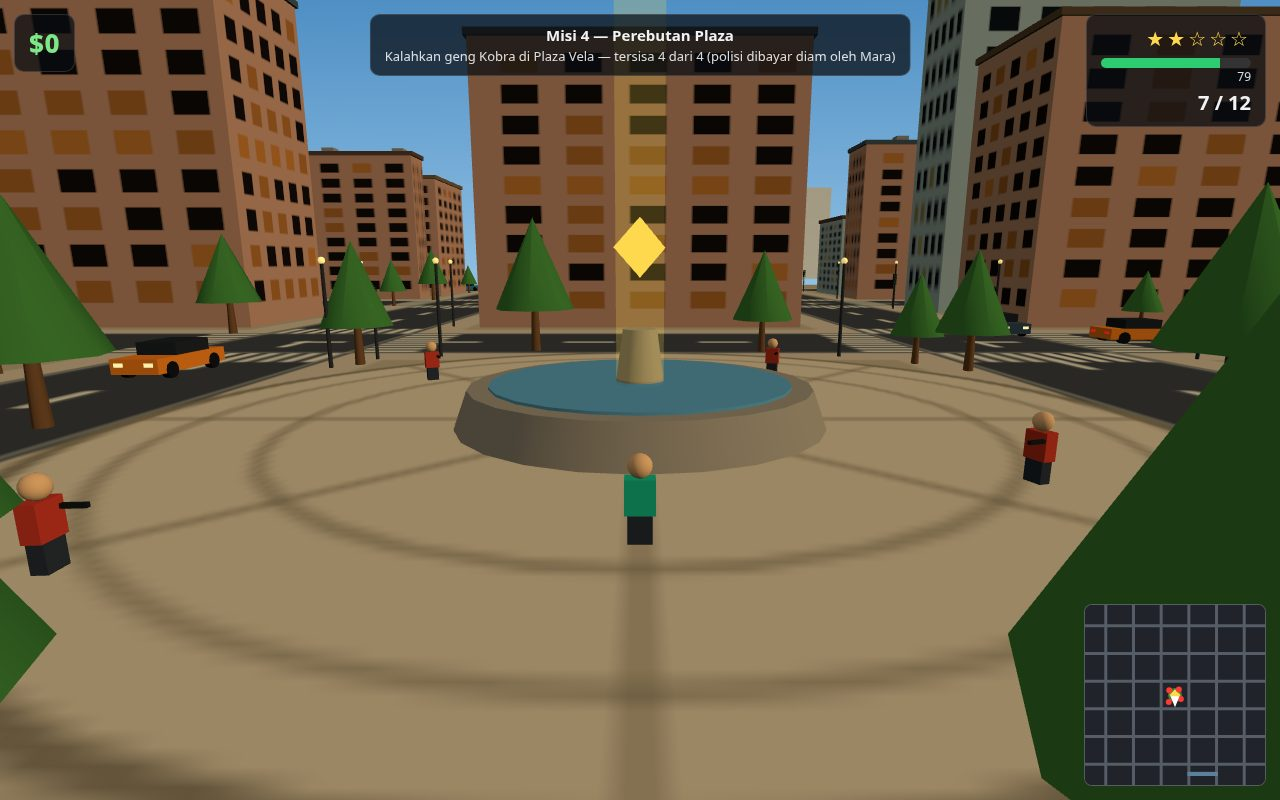
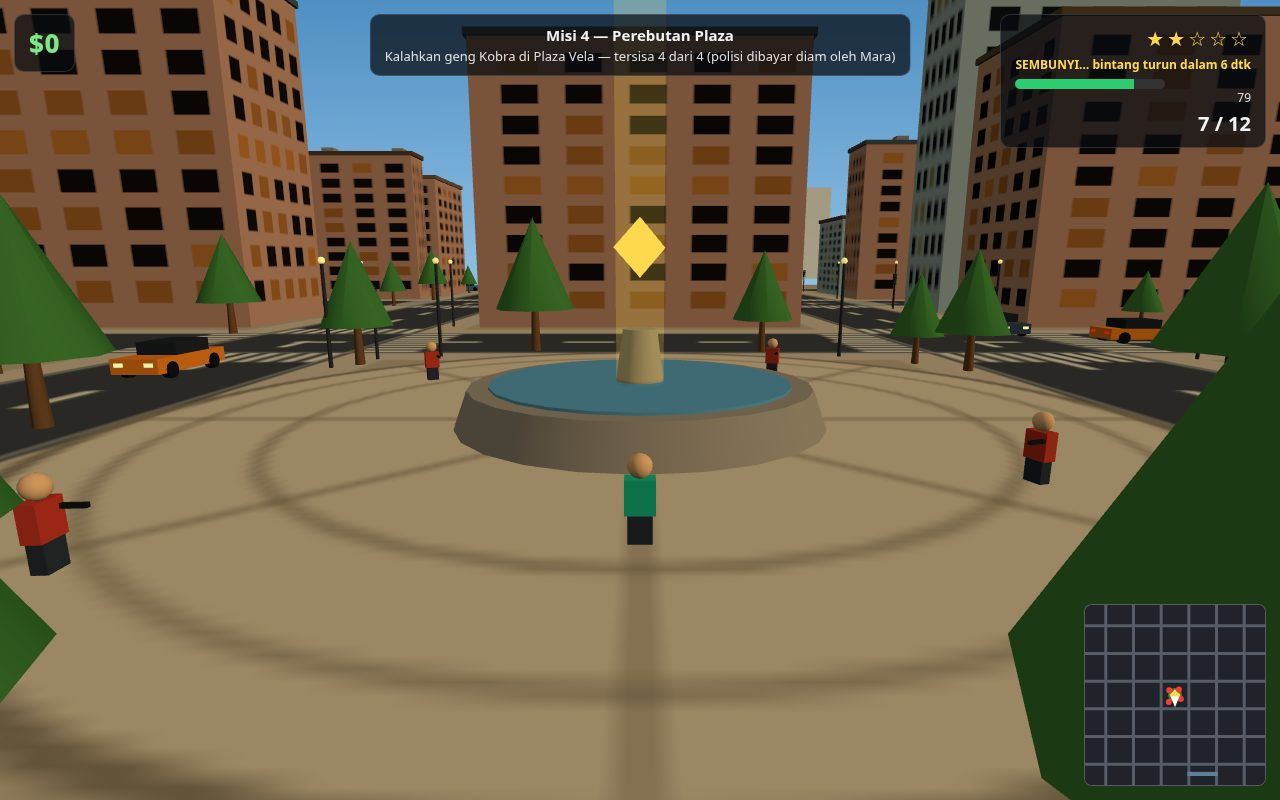
Police pursuit: strobing patrol cars, lose-the-cops HUD, two-cop chase shots
- Patrol cars now read as police at a glance: black-and-white paint band,
  POLICE lettering on the rear window, and big alternating red/blue strobe
  halos with a coloured light pool on the road (the old roof bar was a few
  pixels from the chase camera)
- Lose-the-cops readout in the HUD: POLISI MENDEKAT - KABUR! while a patrol
  car is close, SEMBUNYI... countdown while every cop is far enough for a
  star to fade (sim exposes nearestCop/hideIn on state)
- Staged shots now run at wanted 2 with two cops in frame: play (two cops
  head-on, 12 m and 24 m ahead) and docks (two cops on the boards); the
  plaza shot also shows the hiding countdown
- Sim 19/19 (steal -> wanted + spawn, hiding decay, missions 1-3 flow),
  Playwright all passed, dossier builds (14 files, 770778 bytes)

Changed region(s): [[0.7812, 0.0, 1.0, 0.1875]]

diff --git a/game/src/shots.js b/game/src/shots.js
@@ -2,7 +2,7 @@
 // a scene from the game's own sim, renders it, and sets window.__shotReady.
 // Nothing here is a mock: every staged scene is the real world stepped
 // forward by the real rules.
-import { SITES, SCREEN_PLAY, SCREEN_TITLE } from './config.js';
+import { QUIET_SECONDS, SITES, SCREEN_PLAY, SCREEN_TITLE } from './config.js';
 
 function driveForward(world, seconds) {
   const keys = { f: 1, s: 0, run: false, camYaw: world.state.player.heading };
@@ -14,6 +14,21 @@ function idle(world, seconds) {
   const keys = { f: 0, s: 0, run: false, camYaw: world.state.player.heading };
   const steps = Math.round(seconds * 60);
   for (let i = 0; i < steps; i++) world.step(1 / 60, keys, 0);
+}
+
+// Recompute the chase readout from the staged car positions: after the
+// cops are hand-placed, the values left over from the drive are stale.
+function syncCopProximity(s) {
+  let nearest = Infinity;
+  for (const c of s.cars) {
+    if (c.kind === 'police' && c.active) {
+      nearest = Math.min(nearest, Math.hypot(c.x - s.player.x, c.z - s.player.z));
+    }
+  }
+  s.nearestCop = nearest;
+  s.hideIn = s.wanted > 0 && nearest > 35
+    ? Math.max(0, Math.ceil(QUIET_SECONDS - s.quietTimer))
+    : 0;
 }
 
 export function stageShot(name, world) {
@@ -50,29 +65,39 @@ export function stageShot(name, world) {
     }
     world.setMission(1);
     s.cash = 500; // mission 1's reward: the chase happens after the first job
-    s.wanted = 1;
-    s.spawnPolice = 1;
+    s.wanted = 2;
+    s.spawnPolice = 2;
     s.policeTimer = 0;
     driveForward(world, 2.0);
-    // The pursuing cop belongs IN the frame: head-on, lights flashing, on
-    // the same street ahead of the player — behind the player it would sit
-    // behind the chase camera and never be seen.
-    const cop = s.cars.find((c) => c.kind === 'police');
-    if (cop) {
-      cop.x = s.player.x;
-      cop.z = s.player.z - 18;
-      cop.heading = 0;
-      cop.speed = 12;
-      cop.axis = 'z';
-      cop.line = 20;
-      cop.along = cop.z;
-      cop.dir = 1;
+    // TWO pursuing cops IN the frame, head-on, lights flashing, on the same
+    // street ahead of the player — behind the player they would sit behind
+    // the chase camera and never be seen.
+    const cops = s.cars.filter((c) => c.kind === 'police');
+    if (cops[0]) {
+      cops[0].x = s.player.x;
+      cops[0].z = s.player.z - 12;
+      cops[0].heading = 0;
+      cops[0].speed = 12;
+      cops[0].axis = 'z';
+      cops[0].line = 20;
+      cops[0].along = cops[0].z;
+      cops[0].dir = 1;
+    }
+    if (cops[1]) {
+      cops[1].x = s.player.x - 3.5;
+      cops[1].z = s.player.z - 24;
+      cops[1].heading = 0;
+      cops[1].speed = 12;
+      cops[1].axis = 'z';
+      cops[1].line = 20;
+      cops[1].along = cops[1].z;
+      cops[1].dir = 1;
     }
     // A car ahead on the same street so the road reads busy, not empty.
     const ahead = s.cars.find((c) => c.kind === 'traffic');
     if (ahead) {
       ahead.x = 20;
-      ahead.z = s.player.z - 30;
+      ahead.z = s.player.z - 36;
       ahead.heading = Math.PI;
       ahead.speed = 8;
       ahead.axis = 'z';
@@ -83,6 +108,7 @@ export function stageShot(name, world) {
     // The drive can run a pedestrian over: the toast is noise in the shot.
     s.toast = '';
     s.toastT = 0;
+    syncCopProximity(s);
     return { camYaw: s.player.heading, screen: SCREEN_PLAY, camDist: 1 };
   }
   if (name === 'docks') {
@@ -106,22 +132,32 @@ export function stageShot(name, world) {
     }
     world.setMission(1);
     s.cash = 1400;
-    s.wanted = 1;
-    s.spawnPolice = 1;
+    s.wanted = 2;
+    s.spawnPolice = 2;
     s.policeTimer = 0;
     driveForward(world, 2.0);
-    // A cop waiting on the docks boards, head-on, lights flashing — the
-    // harbour water just behind it.
-    const cop = s.cars.find((c) => c.kind === 'police');
-    if (cop) {
-      cop.x = 60;
-      cop.z = 108;
-      cop.heading = Math.PI;
-      cop.speed = 0;
-      cop.axis = 'z';
-      cop.line = 60;
-      cop.along = cop.z;
-      cop.dir = -1;
+    // TWO cops waiting on the docks boards, head-on, lights flashing — the
+    // harbour water just behind them.
+    const cops = s.cars.filter((c) => c.kind === 'police');
+    if (cops[0]) {
+      cops[0].x = 60;
+      cops[0].z = 108;
+      cops[0].heading = Math.PI;
+      cops[0].speed = 0;
+      cops[0].axis = 'z';
+      cops[0].line = 60;
+      cops[0].along = cops[0].z;
+      cops[0].dir = -1;
+    }
+    if (cops[1]) {
+      cops[1].x = 50;
+      cops[1].z = 104;
+      cops[1].heading = Math.PI;
+      cops[1].speed = 0;
+      cops[1].axis = 'z';
+      cops[1].line = 60;
+      cops[1].along = cops[1].z;
+      cops[1].dir = -1;
     }
     // A car ahead on the same street so the road reads busy.
     const ahead = s.cars.find((c) => c.kind === 'traffic');
@@ -137,6 +173,7 @@ export function stageShot(name, world) {
     }
     s.toast = '';
     s.toastT = 0;
+    syncCopProximity(s);
     return { camYaw: s.player.heading, screen: SCREEN_PLAY, camDist: 1 };
   }
   // 'end': the plaza shootout, mission 4, mid-fight.
@@ -152,6 +189,7 @@ export function stageShot(name, world) {
   s2.player.ammo = 7;
   s2.toast = '';
   s2.toastT = 0;
+  syncCopProximity(s2);
   return { camYaw: Math.PI, screen: SCREEN_PLAY, camDist: 1.1 };
 }
 

diff --git a/game/src/render.js b/game/src/render.js
@@ -53,6 +53,40 @@ function glowTexture() {
   return t;
 }
 
+function strobeTexture(color) {
+  const c = document.createElement('canvas');
+  c.width = 128;
+  c.height = 128;
+  const g = c.getContext('2d');
+  const grad = g.createRadialGradient(64, 64, 2, 64, 64, 64);
+  grad.addColorStop(0, color);
+  grad.addColorStop(0.4, color);
+  grad.addColorStop(1, 'rgba(0,0,0,0)');
+  g.fillStyle = grad;
+  g.fillRect(0, 0, 128, 128);
+  const t = new THREE.CanvasTexture(c);
+  t.colorSpace = THREE.SRGBColorSpace;
+  return t;
+}
+
+// White POLICE lettering for the rear window: the face the chase camera
+// sees most. Transparent background so the dark cabin shows through.
+function policePlateTexture() {
+  const c = document.createElement('canvas');
+  c.width = 256;
+  c.height = 64;
+  const g = c.getContext('2d');
+  g.clearRect(0, 0, 256, 64);
+  g.fillStyle = '#ffffff';
+  g.font = '900 42px sans-serif';
+  g.textAlign = 'center';
+  g.textBaseline = 'middle';
+  g.fillText('POLICE', 128, 34);
+  const t = new THREE.CanvasTexture(c);
+  t.colorSpace = THREE.SRGBColorSpace;
+  return t;
+}
+
 function windowTexture(lit, seed) {
   const rng = mulberry32(seed);
   const c = document.createElement('canvas');
@@ -229,7 +263,25 @@ function makeCarMesh(color, isPolice) {
   }
   let barRed = null;
   let barBlue = null;
+  let glowRed = null;
+  let glowBlue = null;
+  let pool = null;
   if (isPolice) {
+    // Black band around the body: the black-and-white patrol-car paint.
+    const band = new THREE.Mesh(
+      new THREE.BoxGeometry(1.96, 0.2, 4.34),
+      new THREE.MeshLambertMaterial({ color: '#15181d' }),
+    );
+    band.position.set(0, 0.58, 0);
+    g.add(band);
+    // POLICE lettering on the cabin's rear face (the chase camera's view).
+    const plate = new THREE.Mesh(
+      new THREE.PlaneGeometry(1.4, 0.35),
+      new THREE.MeshBasicMaterial({ map: policePlateTexture(), transparent: true }),
+    );
+    plate.position.set(0, 1.1, -1.32);
+    plate.rotation.y = Math.PI;
+    g.add(plate);
     const bar = new THREE.Mesh(new THREE.BoxGeometry(1.1, 0.14, 0.3), new THREE.MeshLambertMaterial({ color: '#111318' }));
     bar.position.set(0, 1.45, -0.25);
     barRed = new THREE.Mesh(
@@ -243,10 +295,36 @@ function makeCarMesh(color, isPolice) {
     );
     barBlue.position.set(0.28, 1.5, -0.25);
     g.add(bar, barRed, barBlue);
+    // Strobe halos: camera-facing sprites, so the flash reads from any
+    // angle and any distance instead of a 4-pixel light bar.
+    const mkGlow = (color, x) => {
+      const m = new THREE.SpriteMaterial({
+        map: strobeTexture(color), transparent: true, opacity: 0.9,
+        blending: THREE.AdditiveBlending, depthWrite: false,
+      });
+      const s = new THREE.Sprite(m);
+      s.scale.set(3.0, 3.0, 1);
+      s.position.set(x, 1.6, -0.25);
+      return s;
+    };
+    glowRed = mkGlow('#ff2a2a', -0.28);
+    glowBlue = mkGlow('#2a6bff', 0.28);
+    g.add(glowRed, glowBlue);
+    // A pool of coloured light on the road under the car.
+    pool = new THREE.Mesh(
+      new THREE.CircleGeometry(3.4, 24),
+      new THREE.MeshBasicMaterial({ color: '#ff2a2a', transparent: true, opacity: 0.25, blending: THREE.AdditiveBlending, depthWrite: false }),
+    );
+    pool.rotation.x = -Math.PI / 2;
+    pool.position.y = 0.05;
+    g.add(pool);
   }
   g.userData.wheels = wheels;
   g.userData.barRed = barRed;
   g.userData.barBlue = barBlue;
+  g.userData.glowRed = glowRed;
+  g.userData.glowBlue = glowBlue;
+  g.userData.pool = pool;
   return g;
 }
 
@@ -610,6 +688,12 @@ export function createRenderer(canvas) {
         const phase = Math.floor(time * 4) % 2 === 0;
         if (g.userData.barRed) g.userData.barRed.material.emissiveIntensity = phase ? 2.2 : 0.15;
         if (g.userData.barBlue) g.userData.barBlue.material.emissiveIntensity = phase ? 0.15 : 2.2;
+        if (g.userData.glowRed) g.userData.glowRed.material.opacity = phase ? 0.85 : 0.07;
+        if (g.userData.glowBlue) g.userData.glowBlue.material.opacity = phase ? 0.07 : 0.85;
+        if (g.userData.pool) {
+          g.userData.pool.material.color.set(phase ? '#ff2a2a' : '#2a6bff');
+          g.userData.pool.material.opacity = 0.3;
+        }
       }
     }
     for (const [id, g] of dyn.cars) {

diff --git a/game/src/hud.js b/game/src/hud.js
@@ -81,6 +81,20 @@ export function createHud(els) {
     for (let i = 0; i < 5; i++) stars += i < state.wanted ? '★' : '☆';
     els.starsEl.textContent = stars;
     els.starsEl.style.color = state.wanted > 0 ? '#ffd94d' : '#888888';
+    // Lose-the-cops readout: chase warning while a patrol car is close,
+    // hiding countdown once every cop is far enough to lose the trail.
+    if (state.wanted > 0) {
+      if (state.nearestCop > 35) {
+        els.wantedNoteEl.textContent = `SEMBUNYI… bintang turun dalam ${Math.max(1, state.hideIn)} dtk`;
+        els.wantedNoteEl.style.color = '#ffd94d';
+      } else {
+        els.wantedNoteEl.textContent = 'POLISI MENDEKAT — KABUR!';
+        els.wantedNoteEl.style.color = '#ff6b6b';
+      }
+      els.wantedNoteEl.style.display = 'block';
+    } else {
+      els.wantedNoteEl.style.display = 'none';
+    }
     els.healthFill.style.width = `${Math.max(0, p.health)}%`;
     els.healthFill.style.background = p.health > 50 ? '#2ecc71' : p.health > 25 ? '#f39c12' : '#e74c3c';
     els.healthText.textContent = `${Math.ceil(Math.max(0, p.health))}`;

diff --git a/game/index.html b/game/index.html
@@ -18,6 +18,7 @@
   #objective { font-size: 13px; opacity: 0.9; margin-top: 2px; }
   #stats-box { top: 14px; right: 14px; text-align: right; }
   #stars { font-size: 20px; letter-spacing: 3px; }
+  #wanted-note { font-size: 12px; font-weight: 700; margin-top: 4px; display: none; }
   #health-bar { width: 150px; height: 10px; background: #333; border-radius: 5px; overflow: hidden; margin-top: 6px; }
   #health-fill { height: 100%; width: 100%; background: #2ecc71; }
   #health-text { font-size: 12px; opacity: 0.9; }
@@ -45,6 +46,7 @@
   <div class="panel" id="mission-box"><div id="mission">Port Vela</div><div id="objective"></div></div>
   <div class="panel" id="stats-box">
     <div id="stars">☆☆☆☆☆</div>
+    <div id="wanted-note"></div>
     <div id="health-bar"><div id="health-fill"></div></div>
     <div id="health-text">100</div>
     <div id="ammo">12 / 12</div>

diff --git a/game/src/world.js b/game/src/world.js
@@ -44,6 +44,8 @@ function newState(world) {
     wanted: 0,
     quietTimer: 0,
     bustTimer: 0,
+    nearestCop: Infinity,
+    hideIn: 0,
     spawnPolice: 0,
     policeTimer: 0,
     lastShotAt: -100,
@@ -656,6 +658,8 @@ function stepPolice(world, dt) {
   if (state.wanted === 0) {
     state.cars = state.cars.filter((c) => c.kind !== 'police');
     state.bustTimer = 0;
+    state.nearestCop = Infinity;
+    state.hideIn = 0;
     return;
   }
   let nearest = Infinity;
@@ -703,6 +707,11 @@ function stepPolice(world, dt) {
   } else {
     state.quietTimer = Math.max(0, state.quietTimer - dt * 3);
   }
+  // Expose the chase for the HUD's lose-the-cops readout.
+  state.nearestCop = nearest;
+  state.hideIn = state.wanted > 0 && nearest > 35
+    ? Math.max(0, Math.ceil(QUIET_SECONDS - state.quietTimer))
+    : 0;
 }
 
 function stepWorld(world, dt, keys, actions) {

diff --git a/game/src/main.js b/game/src/main.js
@@ -36,6 +36,7 @@ const hud = createHud({
   missionEl: document.getElementById('mission'),
   objectiveEl: document.getElementById('objective'),
   starsEl: document.getElementById('stars'),
+  wantedNoteEl: document.getElementById('wanted-note'),
   healthFill: document.getElementById('health-fill'),
   healthText: document.getElementById('health-text'),
   ammoEl: document.getElementById('ammo'),

diff --git a/README.md b/README.md
@@ -18,7 +18,7 @@ node serve.ts
 - A 240×240 m procedural city: streets, buildings with lit windows, Plaza Vela with a fountain, palms, street lamps and the docks
 - On foot (WASD, Shift to run) and by car — steal any car with **E**
 - Traffic (10 cars) and pedestrians (26) who flee gunfire and speeding cars
-- Wanted level 0–5 with police AI that chases, rams and busts you
+- Wanted level 0–5 with police pursuit: patrol cars in black-and-white paint chase you down the street grid, ram your car and bust you on foot — red/blue strobes flash with a light pool on the road and a POLICE plate on the rear window, and the HUD warns "POLISI MENDEKAT — KABUR!" or counts down the hiding seconds until a star fades ("lose the cops")
 - Pistol combat (**F** / click to shoot, **R** to reload) against the Kobra gang
 - 5 story missions: steal a car, deliver a package, evade a 2-star wanted level, take back the plaza, and one last bank score — $9,400 in total
 - HUD with cash, mission tracker, wanted stars, health, ammo and a live 2D minimap
